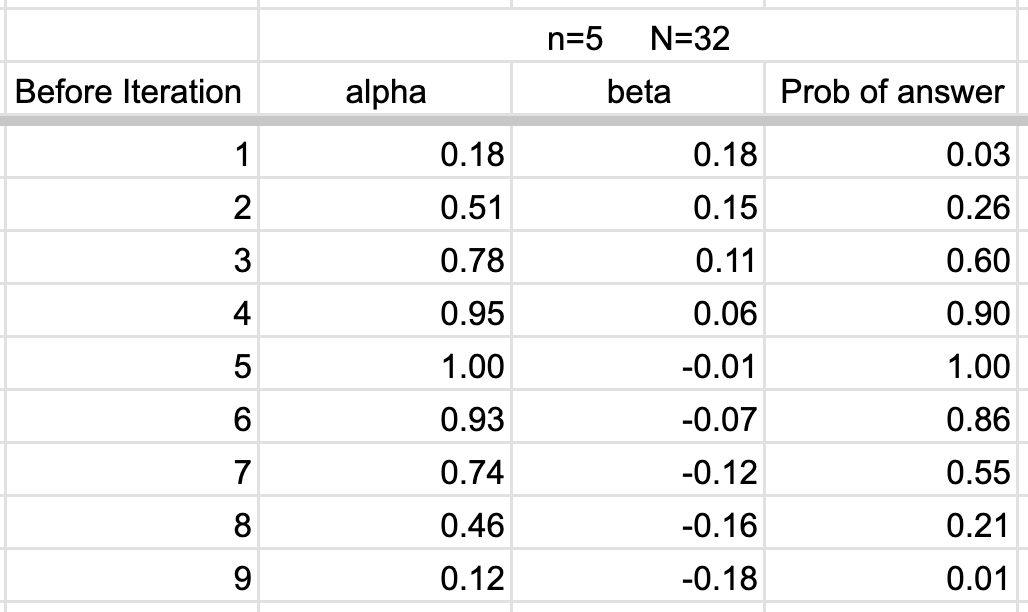
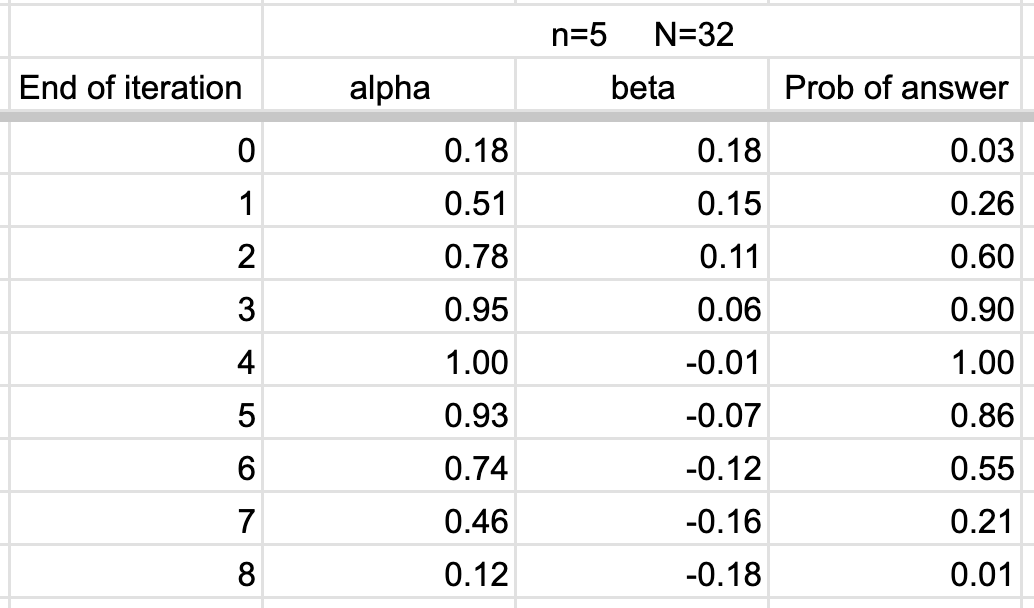
Update on Overleaf.

diff --git a/temp.tex b/temp.tex
@@ -1,2 +1,166 @@
 \SetTitle{99}{temp}{faster}{99}
 
+{
+\def\D{\QState{d}}
+\def\F{\QState{f}}
+\def\S{\ColorOne{\ket{s}}}
+\def\R{\ColorTwo{\ket{r}}}
+\def\W{\ColorThree{\ket{w}}}
+\def\A{\ColorFive{\ensuremath{\alpha}}}
+\def\B{\ColorTwo{\ensuremath{\beta}}}
+
+\begin{frame}{Setup}{For the math of each iteration}
+\begin{itemize}
+    \item Our function's inputs are $n$ bits wide, with $N=2^{n}$
+    \item Our function has just one secret (special input value),  \W.
+    \item \S{} is the uniform superposition of all possible function inputs:
+    \[ \S = \RootN{N} \SumBV{x}{n} \ket{x} = \Hadamard\left(\TensSupProd{0}{n}\right)\]
+    \item Throughout
+    \begin{description}
+      \item[\A] represents the amplitude on our special value \W.
+    \item[\B] represents the amplitude on each of the $N-1$ other states.
+    \end{description}
+    \item We therefore require
+    \[ \Prob{\A}  + (N-1)\,\Prob{\B} = 1\]
+    \item Initially $\A=\B=\RootN{N}$, so we begin at \S.
+\end{itemize}
+\end{frame}
+
+\begin{frame}{The math}{Generally, with $\alpha$ amplitude on \ket{w} and $\beta$ amplitude on all other values}
+
+\begin{Reasoning}
+\Reason{1}{Prior to step 1, we have \A{} amplitude on \W, and \B{} amplitude on all other states}
+\Reason{2}{The oracle $U_{f}$ reflects amplitude on \W, leaving all others alone}
+\Reason{3}{Completing the sum}
+\Reason{4}{\Hadamard(\TensSupProd{0}{n}) = \RootN{N}\SumBV{x}{n}\ket{x}}
+\Reason{6}{Collect terms in preparation for the upcoming \Hadamard{}}
+\Reason{7}{Collect the coefficients for \W}
+\Reason{8}{Apply \Hadamard{} to both sides}
+\Reason{9}{\Hadamard{} is its own inverse}
+\Reason{12}{Recall $\Hadamard\left(\W\right) = \RootN{N} \NHadamard{\ColorThree{w}}{n}{x}$}
+\Reason{13}{Rearrange. Note that \ket{\TensSupProd{0}{n}} appears in the summation}
+\Reason{14}{Collect coefficients for \ket{\TensSupProd{0}{n}}. $\B\,\sqrt{N}-\B\RootN{N} - \A\RootN{N}=\RootUN{\B(N-1)-\A}{N}$}
+\Reason{16}{We next negate all states except \ket{\TensSupProd{0}{n}}}
+\Reason{17}{We denote the reflection of all states except \ket{\TensSupProd{0}{n}} using $R$}
+\Reason{18}{Complete the summation}
+\Reason{19}{We next collect coefficients of \ket{\TensSupProd{0}{n}}}
+\Reason{21}{Collected coefficients of \ket{\TensSupProd{0}{n}}}
+\Reason{22}{Preparing for last \Hadamard}
+\Reason{24}{Final \Hadamard, returning to the $\R\times\W$ basis}
+\Reason{25}{Recall $\S{}=\Hadamard\left(\ket{\TensSupProd{0}{n}}\right)$ and $\RootN{N}\Hadamard\left(\NHadamard{\ColorThree{w}}{n}{x}\right)=\W$}
+\Reason{27}{\S{} includes \W{}.  We next combine amplitudes for \W}
+\end{Reasoning}
+
+\ScrollProof{1}{5}{%
+    \Next{\Four}{\D &= +\A\W +  \B\sum_{\AllBits{x}{n},\ x\neq w} \ket{x}\\}
+    \Next{\Three}{\F = U_{f}(\D) &= -\A\W + \B \sum_{\AllBits{x}{n},\ x\neq w} \ket{x}\\}
+   \Next{\Two}{ &=  -\A\W + \B\left(-\W +  \SumBV{x}{n}\ket{x}\right) \\}
+    \Last{&=  -\A\W + \B\left(-\W +  \sqrt{N}\ \Hadamard\left(\ket{\TensSupProd{0}{n}}\right)\right)}
+}%
+\ScrollProof{6}{10}{%
+  \Next{\Four}{\F &=  -\A\W + \B\left(-\W +  \sqrt{N}\ \Hadamard\left(\ket{\TensSupProd{0}{n}}\right)\right) \\}
+  \Next{\Three}{ &= \left(-\A-\B\right)\W + \B\sqrt{N}\  \Hadamard\left(\ket{\TensSupProd{0}{n}}\right)\\}
+  \Next{\Two}{\alert<8>{\Hadamard}(\F) &= \left(-\A-\B\right)\alert<8>{\Hadamard}\left(\W\right) + \B\sqrt{N}\  \ \alert<9>{\alert<8>{\Hadamard}\left(\Hadamard\left(\ket{\TensSupProd{0}{n}}\right)\right)}\\}
+  \Last{&=\left(-\A-\B\right)\Hadamard\left(\W\right) + \B\,\sqrt{N}\, \alert<9>{\ket{\TensSupProd{0}{n}}}}
+}%
+\ScrollProof{11}{15}{%
+  \Next{\Four}{\Hadamard(\F)&=\left(-\A-\B\right)\alert<12>{\Hadamard\left(\W\right)} + \B\,\sqrt{N}\, \ket{\TensSupProd{0}{n}} \\}
+%%
+  \Next{\Three}{ &= \left(-\A-\B\right)\alert<12>{\RootN{N}\NHadamard{\ColorThree{w}}{n}{x}} + \B\,\sqrt{N}\, \ket{\TensSupProd{0}{n}}\\}
+  \Next{\Two}{ &= \B\,\sqrt{N}\, \ket{\TensSupProd{0}{n}} - \left(\A+\B\right)\alert<12>{\RootN{N}\alert<13>{\NHadamard{\ColorThree{w}}{n}{x}}}\\}
+  \Last{&= \left(\RootUN{\B(N-1)-\A}{N}\right) \ket{\TensSupProd{0}{n}} - \left(\A+\B\right)\RootN{N}\NHadamardS{\ColorThree{w}}{n}{x}{\sum_{\alert<14>{x\neq\TensSupProd{0}{n}}}}}
+}%
+\ScrollProof{16}{19}{%
+ \Next{\Three}{\Hadamard(\F) &=\left(\RootUN{\B(N-1)-\A}{N}\right) \ket{\TensSupProd{0}{n}} \alert<17>{-} \RootUN{\A+\B}{N}\NHadamardS{\ColorThree{w}}{n}{x}{\sum_{\alert<14>{x\neq\TensSupProd{0}{n}}}} \\}
+ \Next{\Two}{\alert<17>{R}\left(\Hadamard(\F)\right) &=\left(\RootUN{\B(N-1)-\A}{N}\right) \ket{\TensSupProd{0}{n}} \alert<17>{+} \RootUN{\A+\B}{N}\NHadamardS{\ColorThree{w}}{n}{x}{\sum_{\alert<14>{\alert<18>{x\neq\TensSupProd{0}{n}}}}}  \\}
+ %% left off here
+ \Last{ &=\left(\RootUN{\B(N-1)-\A}{N}\right) \ket{\TensSupProd{0}{n}} \alert<17>{+} \RootUN{\A+\B}{N}\NHadamardS{\ColorThree{w}}{n}{x}{\sum_{\alert<14>{\alert<18>{\AllBits{x}{n}}}}}\\ & \hbox to 11em{\hss} \alert<18>{- \RootUN{\A+\B}{N}\ket{\TensSupProd{0}{n}}}
+}}%
+\ScrollProof{20}{22}{%
+  \Next{\Two}{R\left(\Hadamard(\F)\right) &= \left(\RootUN{\B(N-1)-\A}{N}\right) \ket{\TensSupProd{0}{n}} + \RootUN{\A+\B}{N}\NHadamardS{\ColorThree{w}}{n}{x}{\sum_{\AllBits{x}{n}}}\\ & \hbox to 11em{\hss} - \RootUN{\A+\B}{N}\ket{\TensSupProd{0}{n}} \\[1em]}
+  \Last{ &= \left(\RootUN{\B\,(N-2)-2\A}{N}\right) \ket{\TensSupProd{0}{n}} +\RootUN{\A+\B}{N}\NHadamard{\ColorThree{w}}{n}{x}}
+}
+\ScrollProof{23}{26}{%
+  \Next{\Three}{R\left(\Hadamard(\F)\right) &=\left(\RootUN{\B\,(N-2)-2\A}{N}\right) \ket{\TensSupProd{0}{n}} +\RootUN{\A+\B}{N}\NHadamard{\ColorThree{w}}{n}{x} \\}
+  \Next{\Two}{\alert<24>{\Hadamard}\left(R\left(\Hadamard(\F)\right)\right) &=\left(\RootUN{\B\,(N-2)-2\A}{N}\right) \alert<24>{\Hadamard}\left(\ket{\TensSupProd{0}{n}}\right) \\& \hbox to 12em{\hss}+\RootUN{\A+\B}{N}\alert<24>{\Hadamard}\left(\NHadamard{\ColorThree{w}}{n}{x}\right) \\}
+  \Last{ &= \RootUN{\B\,(N-2)-2\A}{N}\S+\left(\A+\B\right)\W=\D }
+}%
+\ScrollProof{27}{30}{%
+\Next{\Three}{\D &= \RootUN{\B\,(N-2)-2\A}{N}\S+\left(\A+\B\right)\W \\}
+\Next{\Two}{ &=  \RootUN{\B\,(N-2)-2\A}{N}\RootN{N}\SumBV{x}{n} \ket{x} + \left(\A+\B\right)\W \\}
+\Last{ &=  \frac{\B\,(N-2)-2\A}{N}\SumBV{x}{n} \ket{x} + \left(\A+\B\right)\W}
+}
+\ScrollProof{31}{35}{%
+\Next{\Four}{\D  &=  \frac{\B\,(N-2)-2\A}{N}\SumBV{x}{n} \ket{x} + \left(\A+\B\right)\W \\}
+\Next{\Three}{ &=  \frac{\B\,(N-2)-2\A}{N}\hbox to -1em{\hss}\sum_{\AllBits{x}{n},\ x\neq w} \hbox to -2em{\hss}\ket{x} + \left(\A+\B\right)\W +\frac{\B\,(N-2)-2\A}{N}\W \\}
+\Next{\Two}{& = \frac{\B\,(N-2)-2\A}{N}\hbox to -1em{\hss}\sum_{\AllBits{x}{n},\ x\neq w} \hbox to -2em{\hss}\ket{x} + \frac{N(2\B+\A)-2(\A+\B)}{N}\W \\}
+\Last{&=  \left(\B\,\left(1-\frac{2}{N}\right)-\frac{2\A}{N}\right)\hbox to -1em{\hss}\sum_{\AllBits{x}{n},\ x\neq w} \hbox to -2em{\hss}\ket{x} + \left((2\B+\A)-\frac{2}{N}(\A+\B)\right)\W}
+}
+\end{frame}
+
+
+\begin{frame}{State $\D_{1}$ reached after the first iteration}{Provides a formula for all iterations}
+\begin{align*}
+\D_{1} &=  \left(\B\,\left(1-\frac{2}{N}\right)-\frac{2\A}{N}\right)\hbox to -1em{\hss}\sum_{\AllBits{x}{n},\ x\neq w} \hbox to -2em{\hss}\ket{x} + \left((2\B+\A)-\frac{2}{N}(\A+\B)\right)\W \\
+&= \B_{1} \hbox to -1em{\hss}\sum_{\AllBits{x}{n},\ x\neq w} \hbox to -2em{\hss}\ket{x} + \A_{1} \W
+\end{align*}
+\begin{itemize}
+  \item $\D_{1}$ is the state (above), obtained at the end of the first iteration.
+  \item By linearity, this same effect happens each iteration.
+  \item We thus extend this result to define the results of iteration $i+1$ in terms of
+  \begin{description}
+     \item[$\A_{i}$] the amplitude on \W{} at the end of iteration $i$, and
+     \item[$\B_{i}$] the amplitude on all other states at the end of iteration $i$.
+  \end{description}
+\end{itemize}
+\end{frame}
+
+\begin{frame}{Recurrence defining the state at the end of iteration $i+1$}{Valid for $i\geq 0$}
+\Vskip{-3em}\[ \D_{i+1} = \B_{i+1} \hbox to -1em{\hss}\sum_{\AllBits{x}{n},\ x\neq w} \hbox to -2em{\hss}\ket{x} + \A_{i+1} \W\]
+where \visible<2->{\alert<2-3>{(approximations are for large $N$)}}
+\begin{align*}
+    \B_{i+1} &= \B_{i}\,\left(1-\frac{2}{\alert<2>{N}}\right)-\frac{2\A_{i}}{\alert<2>{N}} && \alert<3>{\visible<3->{\approx \B_{i}}} \\
+    \A_{i+1} &= (2\B_{i}+\A_{i})-\frac{2}{\alert<2>{N}}(\A_{i}+\B_{i}) && \alert<3>{\visible<3->{\approx 2\B_{i}+\A_{i}}}
+\end{align*}
+with
+\Vskip{-3em}\begin{align*}
+    \B_{0} = \B =\RootN{N} &&
+    \A_{0} = \A =\RootN{N}
+\end{align*}
+\visible<4->{The amplitude $\A_{i}$ for \W{} at the end of iteration $0, 1, 2, \ldots, i$ is approximately \[\RootUN{1}{N}, \RootUN{3}{N}, \RootUN{5}{N},\ldots, \RootUN{2i+1}{N}\]}
+\end{frame}
+
+
+
+\begin{frame}{Example of amplitudes for $n=5$ bits}{Using \href{https://docs.google.com/spreadsheets/d/1JCp9PKLTQ7q9jdvRwj-gXxL9jYvu1O-1wA2OnnEBB3s/edit?usp=sharing}{this} Google sheet}
+
+\Vskip{-4em}\begin{center}
+\begin{Pixture}[width=0.5\textwidth]{26}{5bitGrover.png}
+\end{Pixture}
+\end{center}
+\begin{itemize}
+    \item At first, \A{} increases linearly, but at some point \B{} becomes negative, diminishing \A{}.
+    \item How many iterations should we perform to have reasonable probability of seeing \W?
+\end{itemize}
+    
+\end{frame}
+
+
+\subsection*{Generally}
+
+
+\begin{frame}{How many iterations?}{Empirical determination}
+
+\begin{itemize}
+    \item We can use the recurrence to compute how many iterations are needed, for example, by a \href{https://docs.google.com/spreadsheets/d/1JCp9PKLTQ7q9jdvRwj-gXxL9jYvu1O-1wA2OnnEBB3s/edit?usp=sharing}{Google sheet}.
+    \item We need only reach a point where the probability of seeing \W{} is 10\% or better.
+   \begin{itemize}\item Then, with 40 trials, we are $98\%$ sure of finding \W.\end{itemize}
+     \item From the sequence that approximates $\A_{i}$
+    \(\RootUN{1}{N}, \RootUN{3}{N}, \RootUN{5}{N},\ldots, \RootUN{2i+1}{N}\)
+    we can see we need $\Theta(\sqrt{N})$ iterations to obtain an observable answer for any $N$.
+       \item Computing such a sheet is covered by this complexity.
+    \item We will, however, also determine an appropriate number of iterations mathematically.
+\end{itemize}
+    
+\end{frame}
+}

diff --git a/26.tex b/26.tex
@@ -565,138 +565,3 @@ Recalling that $N=2^{n}$ is large
 \end{frame}
 }
 
-\subsection*{Generally}
-
-{
-\def\D{\QState{d}}
-\def\F{\QState{f}}
-\def\S{\ColorOne{\ket{s}}}
-\def\R{\ColorTwo{\ket{r}}}
-\def\W{\ColorThree{\ket{w}}}
-\def\A{\ColorFive{\ensuremath{\alpha}}}
-\def\B{\ColorTwo{\ensuremath{\beta}}}
-
-\begin{frame}{Setup}{For the math of each iteration}
-\begin{itemize}
-    \item Our function's inputs are $n$ bits wide, with $N=2^{n}$
-    \item Our function has just one secret (special input value),  \W.
-    \item \S{} is the uniform superposition of all possible function inputs:
-    \[ \S = \RootN{N} \SumBV{x}{n} \ket{x} = \Hadamard\left(\TensSupProd{0}{n}\right)\]
-    \item Throughout
-    \begin{description}
-      \item[\A] represents the amplitude on our special value \W.
-    \item[\B] represents the amplitude on each of the $N-1$ other states.
-    \end{description}
-    \item We therefore require
-    \[ \Prob{\A}  + (N-1)\,\Prob{\B} = 1\]
-    \item Initially $\A=\B=\RootN{N}$, so we begin at \S.
-\end{itemize}
-\end{frame}
-
-\begin{frame}{The math}{Generally, with $\alpha$ amplitude on \ket{w} and $\beta$ amplitude on all other values}
-
-\begin{Reasoning}
-\Reason{1}{Prior to step 1, we have \A{} amplitude on \W, and \B{} amplitude on all other states}
-\Reason{2}{The oracle $U_{f}$ reflects amplitude on \W, leaving all others alone}
-\Reason{3}{Completing the sum}
-\Reason{4}{\Hadamard(\TensSupProd{0}{n}) = \RootN{N}\SumBV{x}{n}\ket{x}}
-\Reason{6}{Collect terms in preparation for the upcoming \Hadamard{}}
-\Reason{7}{Collect the coefficients for \W}
-\Reason{8}{Apply \Hadamard{} to both sides}
-\Reason{9}{\Hadamard{} is its own inverse}
-\Reason{12}{Recall $\Hadamard\left(\W\right) = \RootN{N} \NHadamard{\ColorThree{w}}{n}{x}$}
-\Reason{13}{Rearrange. Note that \ket{\TensSupProd{0}{n}} appears in the summation}
-\Reason{14}{Collect coefficients for \ket{\TensSupProd{0}{n}}. $\B\,\sqrt{N}-\B\RootN{N} - \A\RootN{N}=\RootUN{\B(N-1)-\A}{N}$}
-\Reason{16}{We next negate all states except \ket{\TensSupProd{0}{n}}}
-\Reason{17}{We denote the reflection of all states except \ket{\TensSupProd{0}{n}} using $R$}
-\Reason{18}{Complete the summation}
-\Reason{19}{We next collect coefficients of \ket{\TensSupProd{0}{n}}}
-\Reason{21}{Collected coefficients of \ket{\TensSupProd{0}{n}}}
-\Reason{22}{Preparing for last \Hadamard}
-\Reason{24}{Final \Hadamard, returning to the $\R\times\W$ basis}
-\Reason{25}{Recall $\S{}=\Hadamard\left(\ket{\TensSupProd{0}{n}}\right)$ and $\RootN{N}\Hadamard\left(\NHadamard{\ColorThree{w}}{n}{x}\right)=\W$}
-\Reason{27}{\S{} includes \W{}.  We next combine amplitudes for \W}
-\end{Reasoning}
-
-\ScrollProof{1}{5}{%
-    \Next{\Four}{\D &= +\A\W +  \B\sum_{\AllBits{x}{n},\ x\neq w} \ket{x}\\}
-    \Next{\Three}{\F = U_{f}(\D) &= -\A\W + \B \sum_{\AllBits{x}{n},\ x\neq w} \ket{x}\\}
-   \Next{\Two}{ &=  -\A\W + \B\left(-\W +  \SumBV{x}{n}\ket{x}\right) \\}
-    \Last{&=  -\A\W + \B\left(-\W +  \sqrt{N}\ \Hadamard\left(\ket{\TensSupProd{0}{n}}\right)\right)}
-}%
-\ScrollProof{6}{10}{%
-  \Next{\Four}{\F &=  -\A\W + \B\left(-\W +  \sqrt{N}\ \Hadamard\left(\ket{\TensSupProd{0}{n}}\right)\right) \\}
-  \Next{\Three}{ &= \left(-\A-\B\right)\W + \B\sqrt{N}\  \Hadamard\left(\ket{\TensSupProd{0}{n}}\right)\\}
-  \Next{\Two}{\alert<8>{\Hadamard}(\F) &= \left(-\A-\B\right)\alert<8>{\Hadamard}\left(\W\right) + \B\sqrt{N}\  \ \alert<9>{\alert<8>{\Hadamard}\left(\Hadamard\left(\ket{\TensSupProd{0}{n}}\right)\right)}\\}
-  \Last{&=\left(-\A-\B\right)\Hadamard\left(\W\right) + \B\,\sqrt{N}\, \alert<9>{\ket{\TensSupProd{0}{n}}}}
-}%
-\ScrollProof{11}{15}{%
-  \Next{\Four}{\Hadamard(\F)&=\left(-\A-\B\right)\alert<12>{\Hadamard\left(\W\right)} + \B\,\sqrt{N}\, \ket{\TensSupProd{0}{n}} \\}
-%%
-  \Next{\Three}{ &= \left(-\A-\B\right)\alert<12>{\RootN{N}\NHadamard{\ColorThree{w}}{n}{x}} + \B\,\sqrt{N}\, \ket{\TensSupProd{0}{n}}\\}
-  \Next{\Two}{ &= \B\,\sqrt{N}\, \ket{\TensSupProd{0}{n}} - \left(\A+\B\right)\alert<12>{\RootN{N}\alert<13>{\NHadamard{\ColorThree{w}}{n}{x}}}\\}
-  \Last{&= \left(\RootUN{\B(N-1)-\A}{N}\right) \ket{\TensSupProd{0}{n}} - \left(\A+\B\right)\RootN{N}\NHadamardS{\ColorThree{w}}{n}{x}{\sum_{\alert<14>{x\neq\TensSupProd{0}{n}}}}}
-}%
-\ScrollProof{16}{19}{%
- \Next{\Three}{\Hadamard(\F) &=\left(\RootUN{\B(N-1)-\A}{N}\right) \ket{\TensSupProd{0}{n}} \alert<17>{-} \RootUN{\A+\B}{N}\NHadamardS{\ColorThree{w}}{n}{x}{\sum_{\alert<14>{x\neq\TensSupProd{0}{n}}}} \\}
- \Next{\Two}{\alert<17>{R}\left(\Hadamard(\F)\right) &=\left(\RootUN{\B(N-1)-\A}{N}\right) \ket{\TensSupProd{0}{n}} \alert<17>{+} \RootUN{\A+\B}{N}\NHadamardS{\ColorThree{w}}{n}{x}{\sum_{\alert<14>{\alert<18>{x\neq\TensSupProd{0}{n}}}}}  \\}
- %% left off here
- \Last{ &=\left(\RootUN{\B(N-1)-\A}{N}\right) \ket{\TensSupProd{0}{n}} \alert<17>{+} \RootUN{\A+\B}{N}\NHadamardS{\ColorThree{w}}{n}{x}{\sum_{\alert<14>{\alert<18>{\AllBits{x}{n}}}}}\\ & \hbox to 11em{\hss} \alert<18>{- \RootUN{\A+\B}{N}\ket{\TensSupProd{0}{n}}}
-}}%
-\ScrollProof{20}{22}{%
-  \Next{\Two}{R\left(\Hadamard(\F)\right) &= \left(\RootUN{\B(N-1)-\A}{N}\right) \ket{\TensSupProd{0}{n}} + \RootUN{\A+\B}{N}\NHadamardS{\ColorThree{w}}{n}{x}{\sum_{\AllBits{x}{n}}}\\ & \hbox to 11em{\hss} - \RootUN{\A+\B}{N}\ket{\TensSupProd{0}{n}} \\[1em]}
-  \Last{ &= \left(\RootUN{\B\,(N-2)-2\A}{N}\right) \ket{\TensSupProd{0}{n}} +\RootUN{\A+\B}{N}\NHadamard{\ColorThree{w}}{n}{x}}
-}
-\ScrollProof{23}{26}{%
-  \Next{\Three}{R\left(\Hadamard(\F)\right) &=\left(\RootUN{\B\,(N-2)-2\A}{N}\right) \ket{\TensSupProd{0}{n}} +\RootUN{\A+\B}{N}\NHadamard{\ColorThree{w}}{n}{x} \\}
-  \Next{\Two}{\alert<24>{\Hadamard}\left(R\left(\Hadamard(\F)\right)\right) &=\left(\RootUN{\B\,(N-2)-2\A}{N}\right) \alert<24>{\Hadamard}\left(\ket{\TensSupProd{0}{n}}\right) \\& \hbox to 12em{\hss}+\RootUN{\A+\B}{N}\alert<24>{\Hadamard}\left(\NHadamard{\ColorThree{w}}{n}{x}\right) \\}
-  \Last{ &= \RootUN{\B\,(N-2)-2\A}{N}\S+\left(\A+\B\right)\W=\D }
-}%
-\ScrollProof{27}{30}{%
-\Next{\Three}{\D &= \RootUN{\B\,(N-2)-2\A}{N}\S+\left(\A+\B\right)\W \\}
-\Next{\Two}{ &=  \RootUN{\B\,(N-2)-2\A}{N}\RootN{N}\SumBV{x}{n} \ket{x} + \left(\A+\B\right)\W \\}
-\Last{ &=  \frac{\B\,(N-2)-2\A}{N}\SumBV{x}{n} \ket{x} + \left(\A+\B\right)\W}
-}
-\ScrollProof{31}{35}{%
-\Next{\Four}{\D  &=  \frac{\B\,(N-2)-2\A}{N}\SumBV{x}{n} \ket{x} + \left(\A+\B\right)\W \\}
-\Next{\Three}{ &=  \frac{\B\,(N-2)-2\A}{N}\hbox to -1em{\hss}\sum_{\AllBits{x}{n},\ x\neq w} \hbox to -2em{\hss}\ket{x} + \left(\A+\B\right)\W +\frac{\B\,(N-2)-2\A}{N}\W \\}
-\Next{\Two}{& = \frac{\B\,(N-2)-2\A}{N}\hbox to -1em{\hss}\sum_{\AllBits{x}{n},\ x\neq w} \hbox to -2em{\hss}\ket{x} + \frac{N(2\B+\A)-2(\A+\B)}{N}\W \\}
-\Last{&=  \left(\B\,\left(1-\frac{2}{N}\right)-\frac{2\A}{N}\right)\hbox to -1em{\hss}\sum_{\AllBits{x}{n},\ x\neq w} \hbox to -2em{\hss}\ket{x} + \left((2\B+\A)-\frac{2}{N}(\A+\B)\right)\W}
-}
-\end{frame}
-\begin{frame}{The math}{Conclusion}
-\begin{align*}
-\D &=  \left(\B\,\left(1-\frac{2}{N}\right)-\frac{2\A}{N}\right)\hbox to -1em{\hss}\sum_{\AllBits{x}{n},\ x\neq w} \hbox to -2em{\hss}\ket{x} + \left((2\B+\A)-\frac{2}{N}(\A+\B)\right)\W \\
-&\approx\  \B\hbox to -1em{\hss}\sum_{\AllBits{x}{n},\ x\neq w} \hbox to -2em{\hss}\ket{x} + (2\B+\A)\W\mbox{, assuming $N$ is large compared to \A{} and \B}
-\end{align*}
-\visible<2->{%
-\begin{itemize}
-    \item Initially, $\A=\B=\RootN{N}$.
-    \item Each iteration
-    \begin{itemize}
-      \item The amplitude for \W{} at the start of each iteration is \[\RootUN{1}{N}, \RootUN{3}{N}, \RootUN{5}{N},\ldots\]
-      \item The amplitudes for all other \ket{x} become slightly smaller.
-    \end{itemize}
-\end{itemize}
-}
-\end{frame}
-
-
-
-\begin{frame}{Values for $n=5$ bits}{Using \href{https://docs.google.com/spreadsheets/d/1JCp9PKLTQ7q9jdvRwj-gXxL9jYvu1O-1wA2OnnEBB3s/edit?usp=sharing}{this} Google sheet}
-
-\Vskip{-4em}\begin{center}
-\begin{Pixture}[width=0.5\textwidth]{26}{5bitGrover.png}
-\end{Pixture}
-\end{center}
-\begin{itemize}
-    \item At first, \A{} increases linearly, but at some point \B{} becomes negative, diminishing \A{}.
-    \item How many iterations should we perform to have reasonable probability of seeing \W?
-\end{itemize}
-    
-\end{frame}
-}
-
-\begin{frame}{To do}{The math of iterations needed}
-    
-\end{frame}

diff --git a/single.tex b/single.tex
@@ -12,5 +12,5 @@
 %%
 %%
 \begin{document}
-\include{26}
+\include{temp}
 \end{document}
